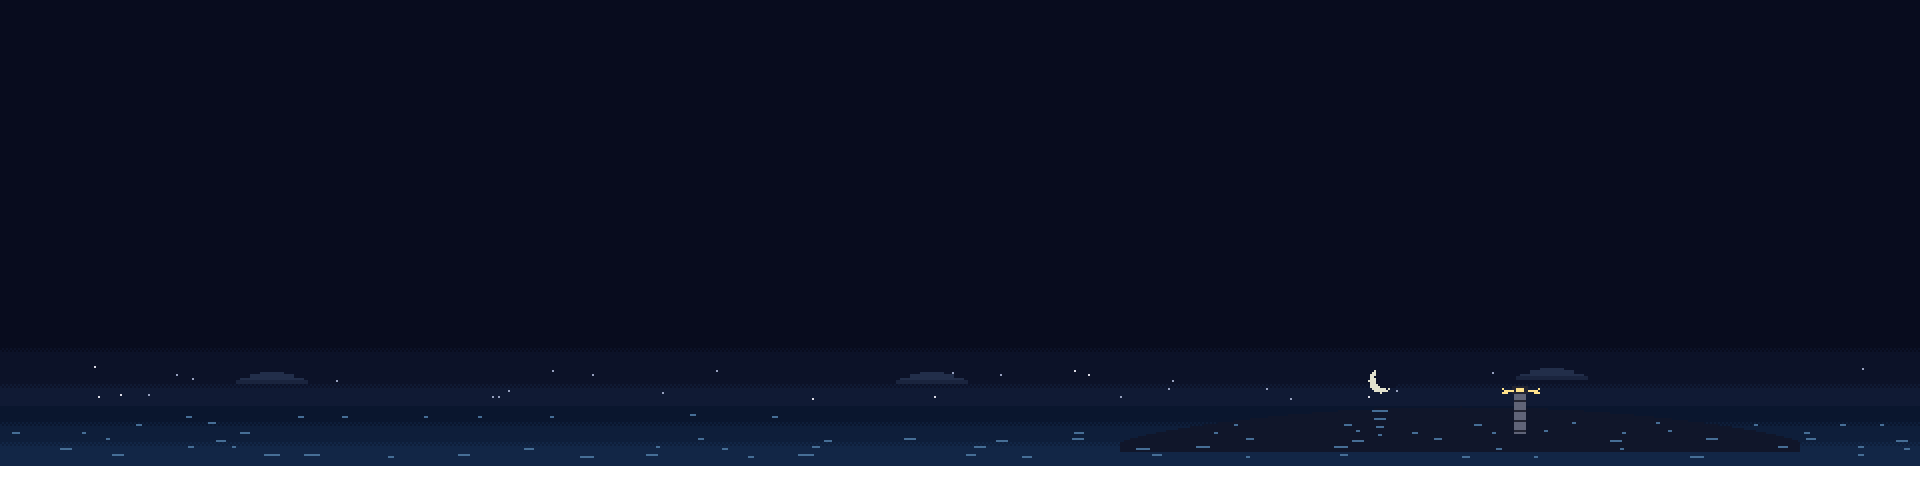
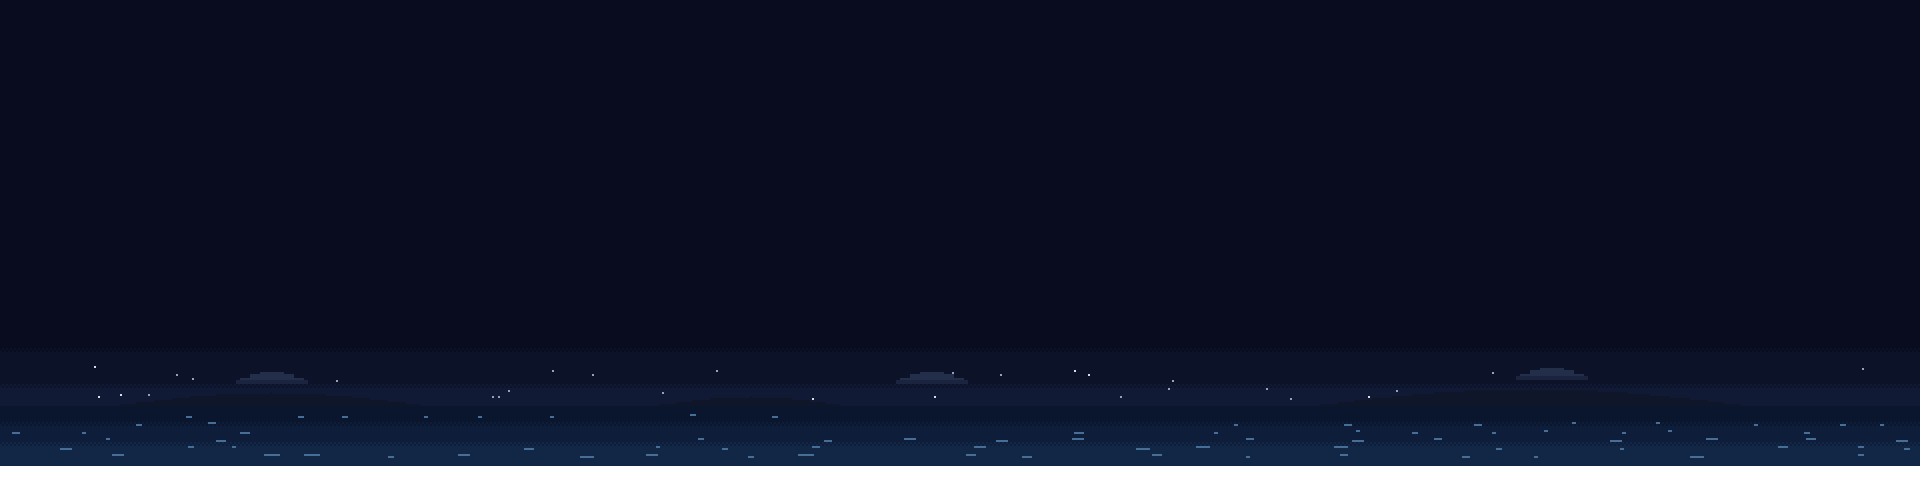
해변 해 · 달 · 등대 — 흐르지 않는 먼 층으로 늘 보이게
- 갯바위 해안 2-2 노을 해 · 등대 곶 2-3 달 + 등대를 흐르는 배경에서 빼 먼 층 그림으로 따로 (그림 한 바퀴에 한 번이라 240 에서 약 15% 만 보이던 것)
- 먼 층은 흐르지 않고 패널 폭 62% 자리에 한 장 · 바닥 맞춤 · 정수 px (넓은 패널에서도 하나)
- 등대 밑은 작은 곶 · 달은 등대 왼쪽 위로 붙여 240 한 화면에 같이
- 1:1 전투 중엔 먼 층을 안 그림 (HP 줄 · 메뉴 뒤에 등대가 걸려 지저분하던 자리)

Changed region(s): [[0.5625, 0.78, 0.9375, 0.93], [0.6875, 0.75, 0.7188, 0.78]]

diff --git a/src/game/features/stage/components/StageScreen.tsx b/src/game/features/stage/components/StageScreen.tsx
@@ -484,7 +484,7 @@ export function StageScreen({ state, layout, widthPx, media, onInput, onOpen, li
       return img;
     });
   }, [media, arenaHere, layout.size, widthPx < 400]);
-  const art = (layer: 'background' | 'foreground') => (media && !gym ? `url("${media}/backgrounds/${sceneBackground(state)}/${layer}-${themeKind()}-${arenaX1 ? 'x1' : layout.size}.png")` : 'none');
+  const art = (layer: 'background' | 'foreground' | 'far') => (media && !gym ? `url("${media}/backgrounds/${sceneBackground(state)}/${layer}-${themeKind()}-${arenaX1 ? 'x1' : layout.size}.png")` : 'none');
   // 체육관: 주인공은 무대 왼쪽 (대기실) · 관장은 무대 오른쪽 끝
   const heroStand = geo ? geo.trainerX : gym ? stage.left + Math.round(stage.width * 0.18) : hero;
   // 1-3 길 끝 체육관 (2026-10-20 태현 님 A안) — gym-enter 동안 주인공이 문 앞까지 걸어가 들어가며 사라지고 화면 닦기 (stage/model gymEnterView)
@@ -712,6 +712,9 @@ export function StageScreen({ state, layout, widthPx, media, onInput, onOpen, li
               // ×1 시합장 (400 아래) 은 지역 길 그림 (×2 점) 대신 시합장 그림 맨 윗줄 하늘 색을 위로 이어 칠함 (위 숲만 점이 두 배로 커 화풍이 섞이던 것 — 아트 디렉터 #97 큼 5 · 원칙 4)
               <div class={arenaX1 ? 'pg-arena-above pg-arena-sky' : 'pg-arena-above'} style={arenaX1 ? { height: `${arenaDrop}px` } : { height: `${arenaDrop + 12 * arenaK}px`, backgroundImage: `url("${media}/backgrounds/${stageBackground(save.location.stageId)}/background-${themeKind()}-${layout.size}.png")` }} />
             )}
+            {/* 먼 층 (해 · 달 · 등대 — bugs 660) = 배경과 앞 그림 사이 · 흐르지 않음 · 전투 중엔 안 그림 (HP 묶음이 수평선 높이라 늘 그 뒤 · 사이에 등대 · 해 조각이 겹쳐
+                240 전투 HP 줄 뒤가 지저분하던 것 — #61 아트와 같은 자리 · 전투 시작 화면 닦기가 사라지는 순간을 가림) */}
+            {FAR_ART.has(sceneBackground(state)) && media && !battle && <FarLayer image={art('far')} widthPx={widthPx} />}
             <ScrollLayer key={`fg-${sceneBackground(state)}`} cls="pg-fg" image={art('foreground')} start={sceneBackground(state).startsWith('arena-') ? 0 : offset * 0.7} pxPerSec={WALK_PX_PER_SEC * layout.scale * 0.7 * walkK} running={phase === 'walk' && live} />
           </>
         )}
@@ -1054,6 +1057,34 @@ const SCROLL_DISTANCE_PX = 1_000_000;
  * 배경 · 앞 수풀 — 걷는 동안 CSS 애니메이션으로 일정하게 흐름 (화면 새로 고침마다 매끈하게 · 2026-10-19 태현 님 "뚝뚝 끊겨 눈이 아파").
  * 처음 위치는 지금 진행 위치에서 (음수 지연), 멈추면 (만남 · 전투 · 병원 앞 …) 같이 멈춤. 크기가 바뀌면 다시 맞춤. 길 위의 것과 딱 맞을 필요는 없는 겹 (패럴랙스)
  */
+/** 먼 층이 있는 배경 (그림 스크립트 make_pixel2.py far — 해변 노을 = 해 · 밤 = 달 + 등대 작은 곶) */
+const FAR_ART: ReadonlySet<string> = new Set(['beach-dusk', 'beach-night']);
+/** 먼 층 그림 가운데 = 패널 폭의 이 자리 */
+const FAR_AT = 0.62;
+
+/**
+ * 먼 층 (bugs 660) — 해 · 달 · 등대가 흐르는 배경 한 바퀴 (1920px · 약 48초) 에 한 번이라 240 에서 약 15% 만 보이던 것 ("등대 곶" 인데 등대가 거의 없음) →
+ * 흐르지 않는 따로 층으로 패널 폭 62% 자리에 늘 (먼 것은 걸어도 거의 안 움직여 보임 · 두 번 넣으면 넓은 패널에서 둘이 같이 보여서 한 장만) ·
+ * 바닥 맞춤 (그림 높이 = 배경 높이라 수평선이 맞음) · 왼쪽 끝 정수 px (그림 폭 짝수 — 가운데 맞춤이 반 픽셀에 서지 않게 · 폭을 몰라 받기 전엔 숨김)
+ */
+function FarLayer({ image, widthPx }: { image: string; widthPx: number }) {
+  const [w, setW] = useState(0);
+  const src = image.startsWith('url("') ? image.slice(5, -2) : '';
+  useEffect(() => {
+    if (!src) return undefined;
+    let live = true;
+    const img = new Image();
+    img.onload = () => {
+      if (live) setW(img.naturalWidth);
+    };
+    img.src = src;
+    return () => {
+      live = false;
+    };
+  }, [src]);
+  return <div class="pg-bg-far" style={{ backgroundImage: image, backgroundPositionX: `${Math.round(widthPx * FAR_AT) - Math.round(w / 2)}px`, visibility: w ? undefined : 'hidden' }} />;
+}
+
 function ScrollLayer({ cls, image, start, pxPerSec, running }: { cls: string; image: string; start: number; pxPerSec: number; running: boolean }) {
   // 애니메이션 시작점은 처음 그릴 때 (또는 빠르기가 바뀔 때) 한 번만 — 매번 바꾸면 그때마다 튐.
   // 빠르기가 바뀌면 (빨리 걷기 켜고 끔 · 일이 다가와 보통 빠르기로) 엔진 진행 자리 (start) 로 다시 맞추지 않고 지금 보이는 자리에서 새 빠르기로 이어 감 —

diff --git a/src/game/webview/game.css b/src/game/webview/game.css
@@ -471,6 +471,14 @@ body.vscode-light .pg-stage .pg-maprow > .pg-balls + .pg-minimap .pg-stage-name 
 .pg-fg {
   opacity: 0.9;
 }
+/* 먼 층 (해 · 달 · 등대 — StageScreen FarLayer · bugs 660) = 흐르지 않음 · 한 장 · 바닥 맞춤 (배경과 같은 높이 그림이라 수평선이 맞음) */
+.pg-bg-far {
+  position: absolute;
+  inset: 0;
+  background-repeat: no-repeat;
+  background-position-y: bottom;
+  pointer-events: none;
+}
 /* 배경이 바뀌는 순간 (3:3 시합장 ↔ 길 · 체육관 3:3 바닥 올림) = 남색 막 0.8 → 0 세 걸음 0.2초 (한 장면에 뚝 바뀌던 것 — UX 리뷰어 #78 U2) · 배경 위 · 사람 · 포켓몬 아래 */
 .pg-scene-fade {
   position: absolute;
